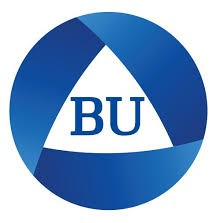
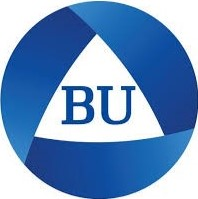
.

diff --git a/lib/main.dart b/lib/main.dart
@@ -69,53 +69,71 @@ class _LoginPageState extends State<LoginPage> {
         title: Text('BU NFC check-in'),
         backgroundColor: Colors.blue[700],
       ),
-      body: Padding(
-        padding: EdgeInsets.all(20.0),
-        child: Column(
-          mainAxisAlignment: MainAxisAlignment.center,
-          children: <Widget>[
-            Image.asset(
-              'assets/bu.jpg',
-              width: 150,
-              height: 150,
-            ),
-            SizedBox(height: 20.0),
-            TextField(
-              controller: studentIDController,
-              decoration: InputDecoration(
-                labelText: '학번',
+      body: Stack(
+        children: <Widget>[
+          // 배경 이미지
+          Positioned.fill(
+            child: Opacity(
+              opacity: 0.25, // 투명도 조절 (0.0: 완전 투명, 1.0: 완전 불투명)
+              child: Image.asset(
+                'assets/bucam.jpg',
+                fit: BoxFit.cover,
               ),
             ),
-            SizedBox(height: 20.0),
-            TextField(
-              controller: passwordController,
-              obscureText: true,
-              decoration: InputDecoration(
-                labelText: '비밀번호',
-              ),
-            ),
-            SizedBox(height: 20.0),
-            ElevatedButton(
-              onPressed: () {
-                String studentID = studentIDController.text;
-                String password = passwordController.text;
+          ),
+          // 로그인 UI
+          Padding(
+            padding: EdgeInsets.all(20.0),
+            child: Column(
+              mainAxisAlignment: MainAxisAlignment.center,
+              children: <Widget>[
+                ClipOval(
+                  child: Image.asset(
+                    'assets/bu.jpg',
+                    width: 150,
+                    height: 150,
+                  ),
+                ),
+                // 입력 칸 등 로그인 UI
+                SizedBox(height: 20.0),
+                TextField(
+                  controller: studentIDController,
+                  decoration: InputDecoration(
+                    labelText: '학번',
+                  ),
+                ),
+                SizedBox(height: 20.0),
+                TextField(
+                  controller: passwordController,
+                  obscureText: true,
+                  decoration: InputDecoration(
+                    labelText: '비밀번호',
+                  ),
+                ),
+                SizedBox(height: 20.0),
+                ElevatedButton(
+                  onPressed: () {
+                    String studentID = studentIDController.text;
+                    String password = passwordController.text;
 
-                for (final entry in credentialsList) {
-                  if (entry.key == studentID && entry.value == password) {
-                    Navigator.pushReplacement(
-                      context,
-                      MaterialPageRoute(builder: (context) => MainPage(studentID: studentID)),
-                    );
-                    return;
-                  }
-                }
+                    for (final entry in credentialsList) {
+                      if (entry.key == studentID && entry.value == password) {
+                        Navigator.pushReplacement(
+                          context,
+                          MaterialPageRoute(builder: (context) => MainPage(studentID: studentID)),
+                        );
+                        return;
+                      }
+                    }
 
-                _showMessage('학번 또는 비밀번호가 올바르지 않습니다.');
-              },
-              child: Text('로그인'),
+                    _showMessage('학번 또는 비밀번호가 올바르지 않습니다.');
+                  },
+                  child: Text('로그인'),
+                ),
+              ],
             ),
-          ],
-        ),
+          ),
+        ],
       ),
     );
   }
@@ -273,8 +291,8 @@ class _MyPageState extends State<MyPage> {
   @override
   Widget build(BuildContext context) {
     return SingleChildScrollView(
-        padding: EdgeInsets.all(
-            16.0),
+      padding: EdgeInsets.all(
+          16.0),
       child: Column(
         crossAxisAlignment: CrossAxisAlignment.center,
         children: <Widget>[
